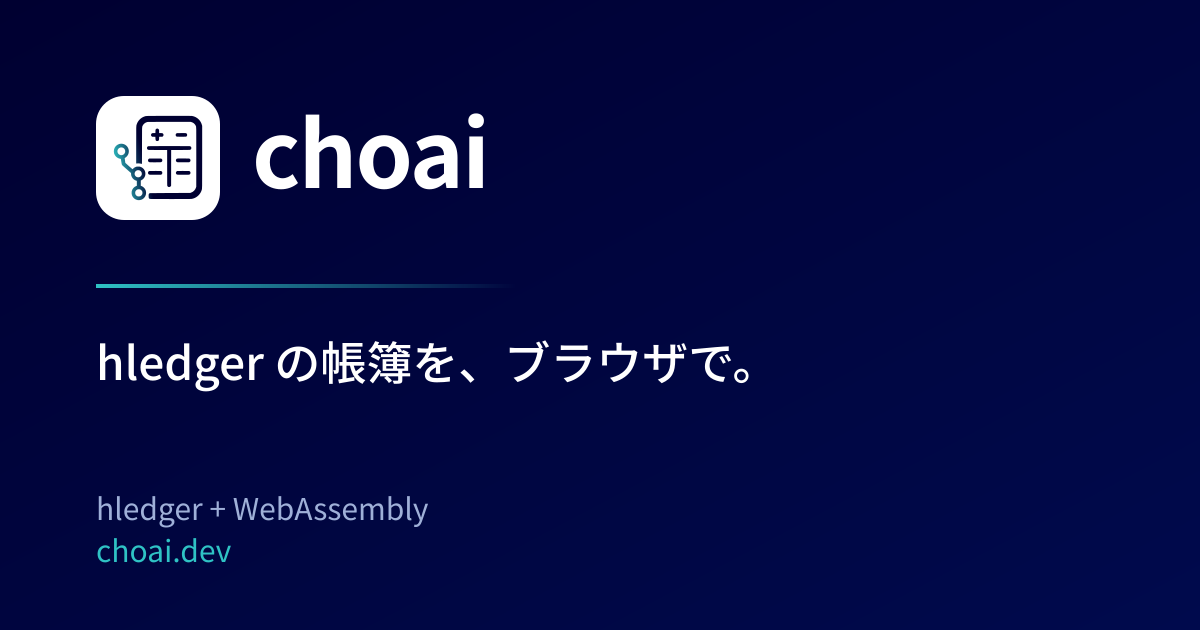
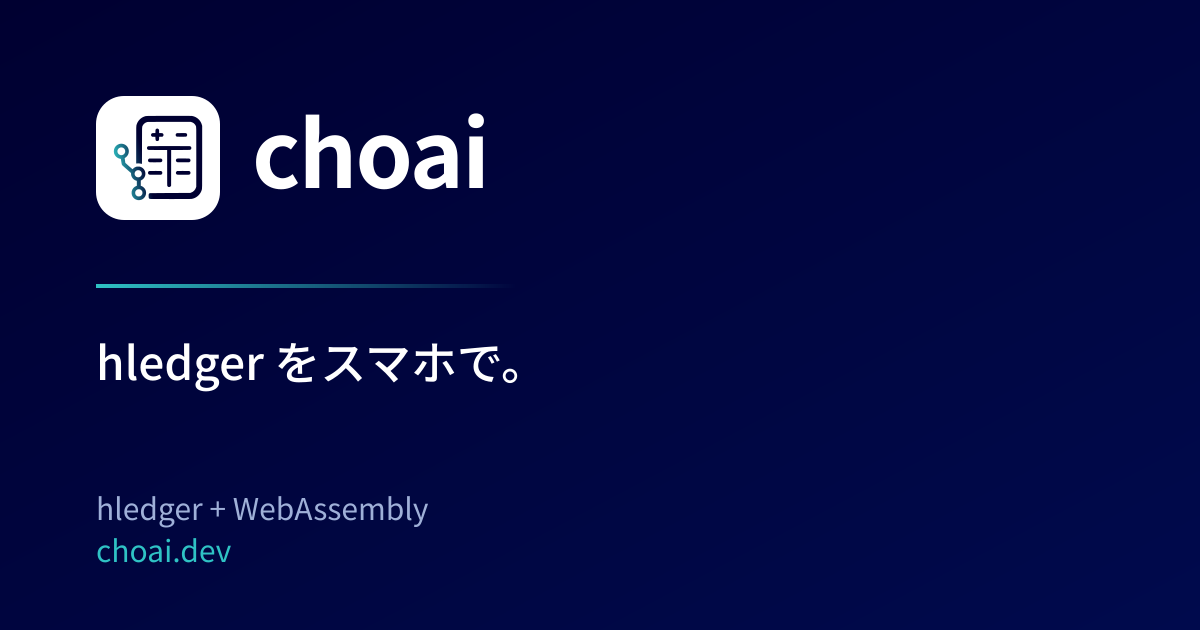
Introduce choai as plain text accounting for everyone, whose books outlast it
The landing page now leads with hledger on a phone, under the title "plain
text accounting for everyone", and its fourth point says who owns the data:
the books are a text file in hledger's own format, in the reader's own
repository, not inside any one company's software, so they still open in
hledger if choai goes away. The link cards unfurl into are redrawn to match.

Changed region(s): [[0.2158, 0.5429, 0.6167, 0.6032]]

diff --git a/lp/src/words.ts b/lp/src/words.ts
@@ -17,10 +17,10 @@ export const en = {
    * that a language added later cannot arrive without one.
    */
   image: "/og.png",
-  title: "choai — your hledger journal, in the browser",
+  title: "choai — plain text accounting for everyone",
   description:
     "Keep hledger journals in a private GitHub repository, from a phone or a desktop. hledger itself does the accounting, compiled to WebAssembly. Free, without advertising.",
-  tagline: "Your hledger journal, in the browser.",
+  tagline: "hledger, on your phone.",
   lead: "Plain-text accounting on a phone, kept in a private repository of your own. hledger itself does the accounting — the real thing, compiled to WebAssembly and running in the page. No account to make, nothing uploaded, free and without advertising.",
   open: "Open the app",
   aboutHledger: "New to hledger? Start here",
@@ -44,10 +44,10 @@ export const en = {
       at: "/ai/",
     },
     {
-      heading: "It outlives this site",
-      body: "All of the code is in the open on GitHub. What is served is static files, so deploying it yourself keeps it running at an address of your own. Your books were in your own repository all along.",
-      more: "Source",
-      at: "https://github.com/mrksye/choai",
+      heading: "You own your accounting data",
+      body: "Your books are not held inside any one company's accounting software. They are plain text, saved in a repository of your own. choai is built on hledger and keeps the journal in hledger's own format, so if choai ever goes away, the same file opens in hledger just as it is. The data stays with you, for good.",
+      more: "The journal format",
+      at: "https://hledger.org/hledger.html#journal",
     },
   ],
   readingsHeading: "More about it",
@@ -74,11 +74,11 @@ export const ja: Words = {
   lang: "ja",
   other: { label: "English" },
   image: "/og-ja.png",
-  title: "choai — hledger の帳簿を、ブラウザで",
+  title: "choai — plain text accounting for everyone",
   description:
     "hledger の帳簿を private な GitHub リポジトリに置いて、スマホからでもパソコンからでも。計算しているのは hledger 本体を WebAssembly にしたものです。無料、広告なし。",
-  tagline: "hledger の帳簿を、ブラウザで。",
-  lead: "プレーンテキスト会計を、スマホで。帳簿は自分の private リポジトリに置きます。計算しているのは hledger 本体 ── WebAssembly にして、このページの中で動かしています。登録は不要、どこにも送らず、無料で広告もありません。",
+  tagline: "hledger をスマホで。",
+  lead: "帳簿は自分の private リポジトリに置きます。計算しているのは hledger 本体 ── WebAssembly にして、このページの中で動かしています。登録は不要、どこにも送らず、無料で広告もありません。",
   open: "アプリを開く",
   aboutHledger: "hledger を知らない方はこちら",
   points: [
@@ -101,10 +101,10 @@ export const ja: Words = {
       at: "/ai/",
     },
     {
-      heading: "このサイトが止まっても終わりません",
-      body: "コードはすべて GitHub で公開しています。配っているのは静的ファイルなので、ご自身でデプロイすれば自分のアドレスで使い続けられます。帳簿はもともとあなたのリポジトリにあります。",
-      more: "ソース",
-      at: "https://github.com/mrksye/choai",
+      heading: "会計データを自分で所有",
+      body: "帳簿は、特定の会社の会計ソフトの中ではなく、テキストファイルとしてあなたのリポジトリに保存されます。choai は hledger を元に作られていて、帳簿の書式も hledger のものです。だから choai がなくなっても、同じファイルを hledger でそのまま開けます。データはずっと、あなたの手元にあります。",
+      more: "hledger の帳簿の書式",
+      at: "https://hledger.org/hledger.html#journal",
     },
   ],
   readingsHeading: "もっと詳しく",
